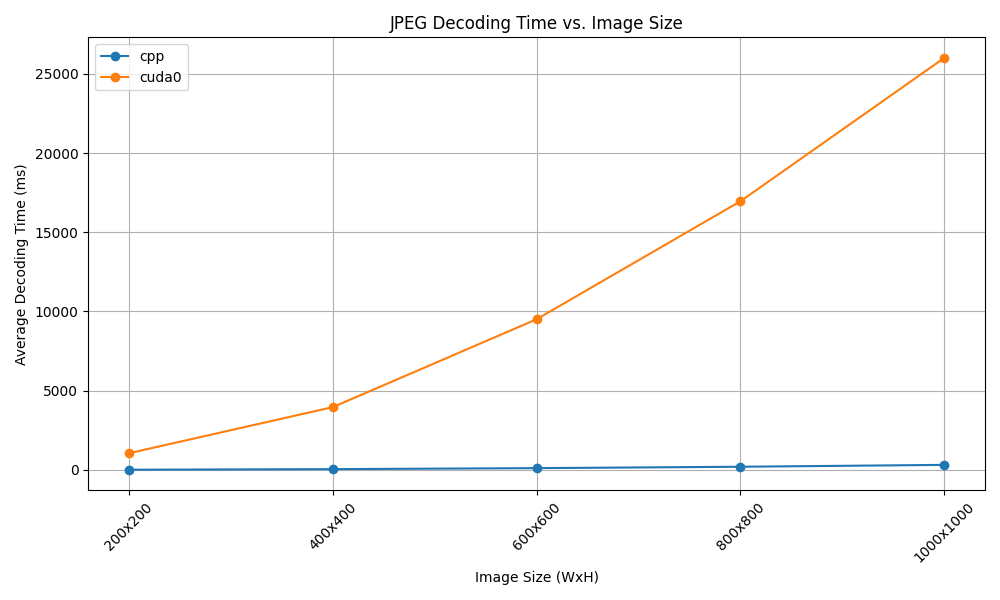
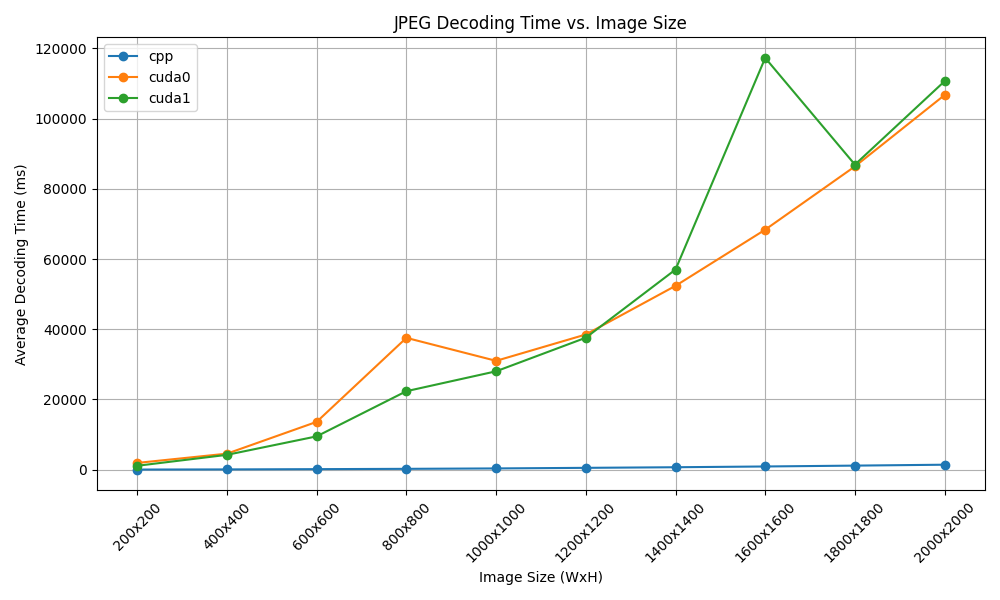
Added ploting.

diff --git a/plots/plot_benchmark.py b/plots/plot_benchmark.py
@@ -3,7 +3,7 @@ import json
 import matplotlib.pyplot as plt
 from collections import defaultdict
 
-versions = ['cpp', 'cuda0']
+versions = ['cpp', 'cuda0', 'cuda1']
 
 sizes = [200, 400, 600, 800, 1000, 1200, 1400, 1600, 1800, 2000]
 
